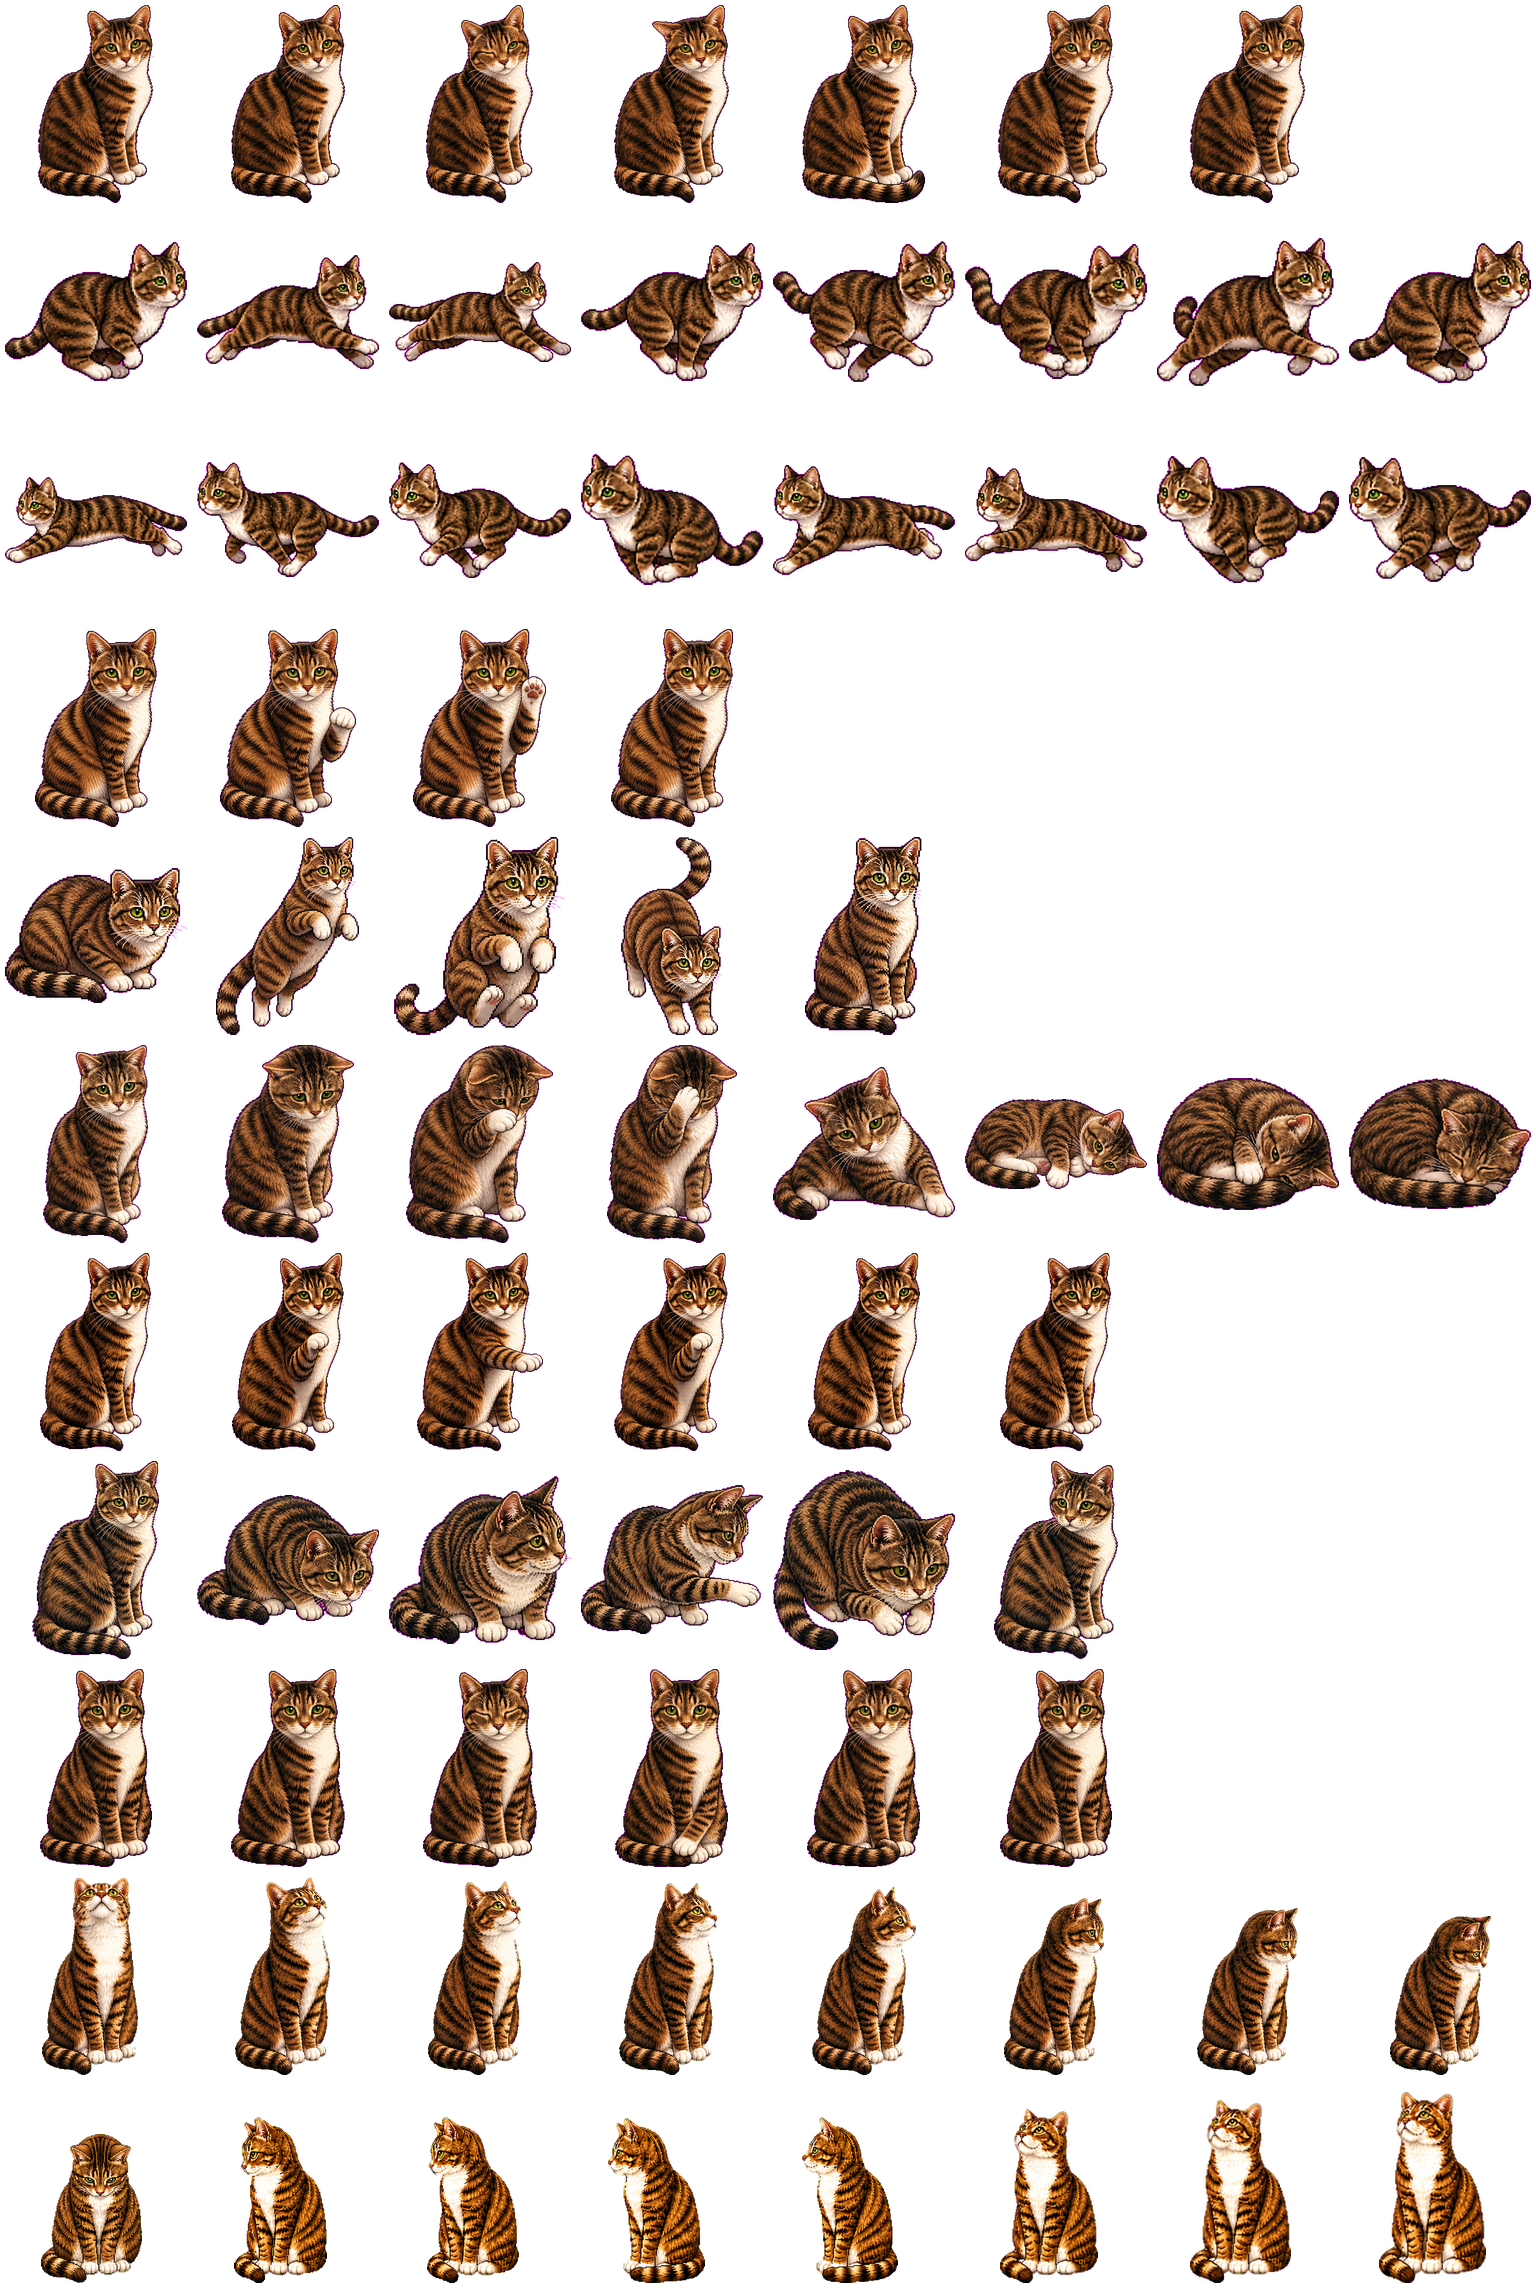
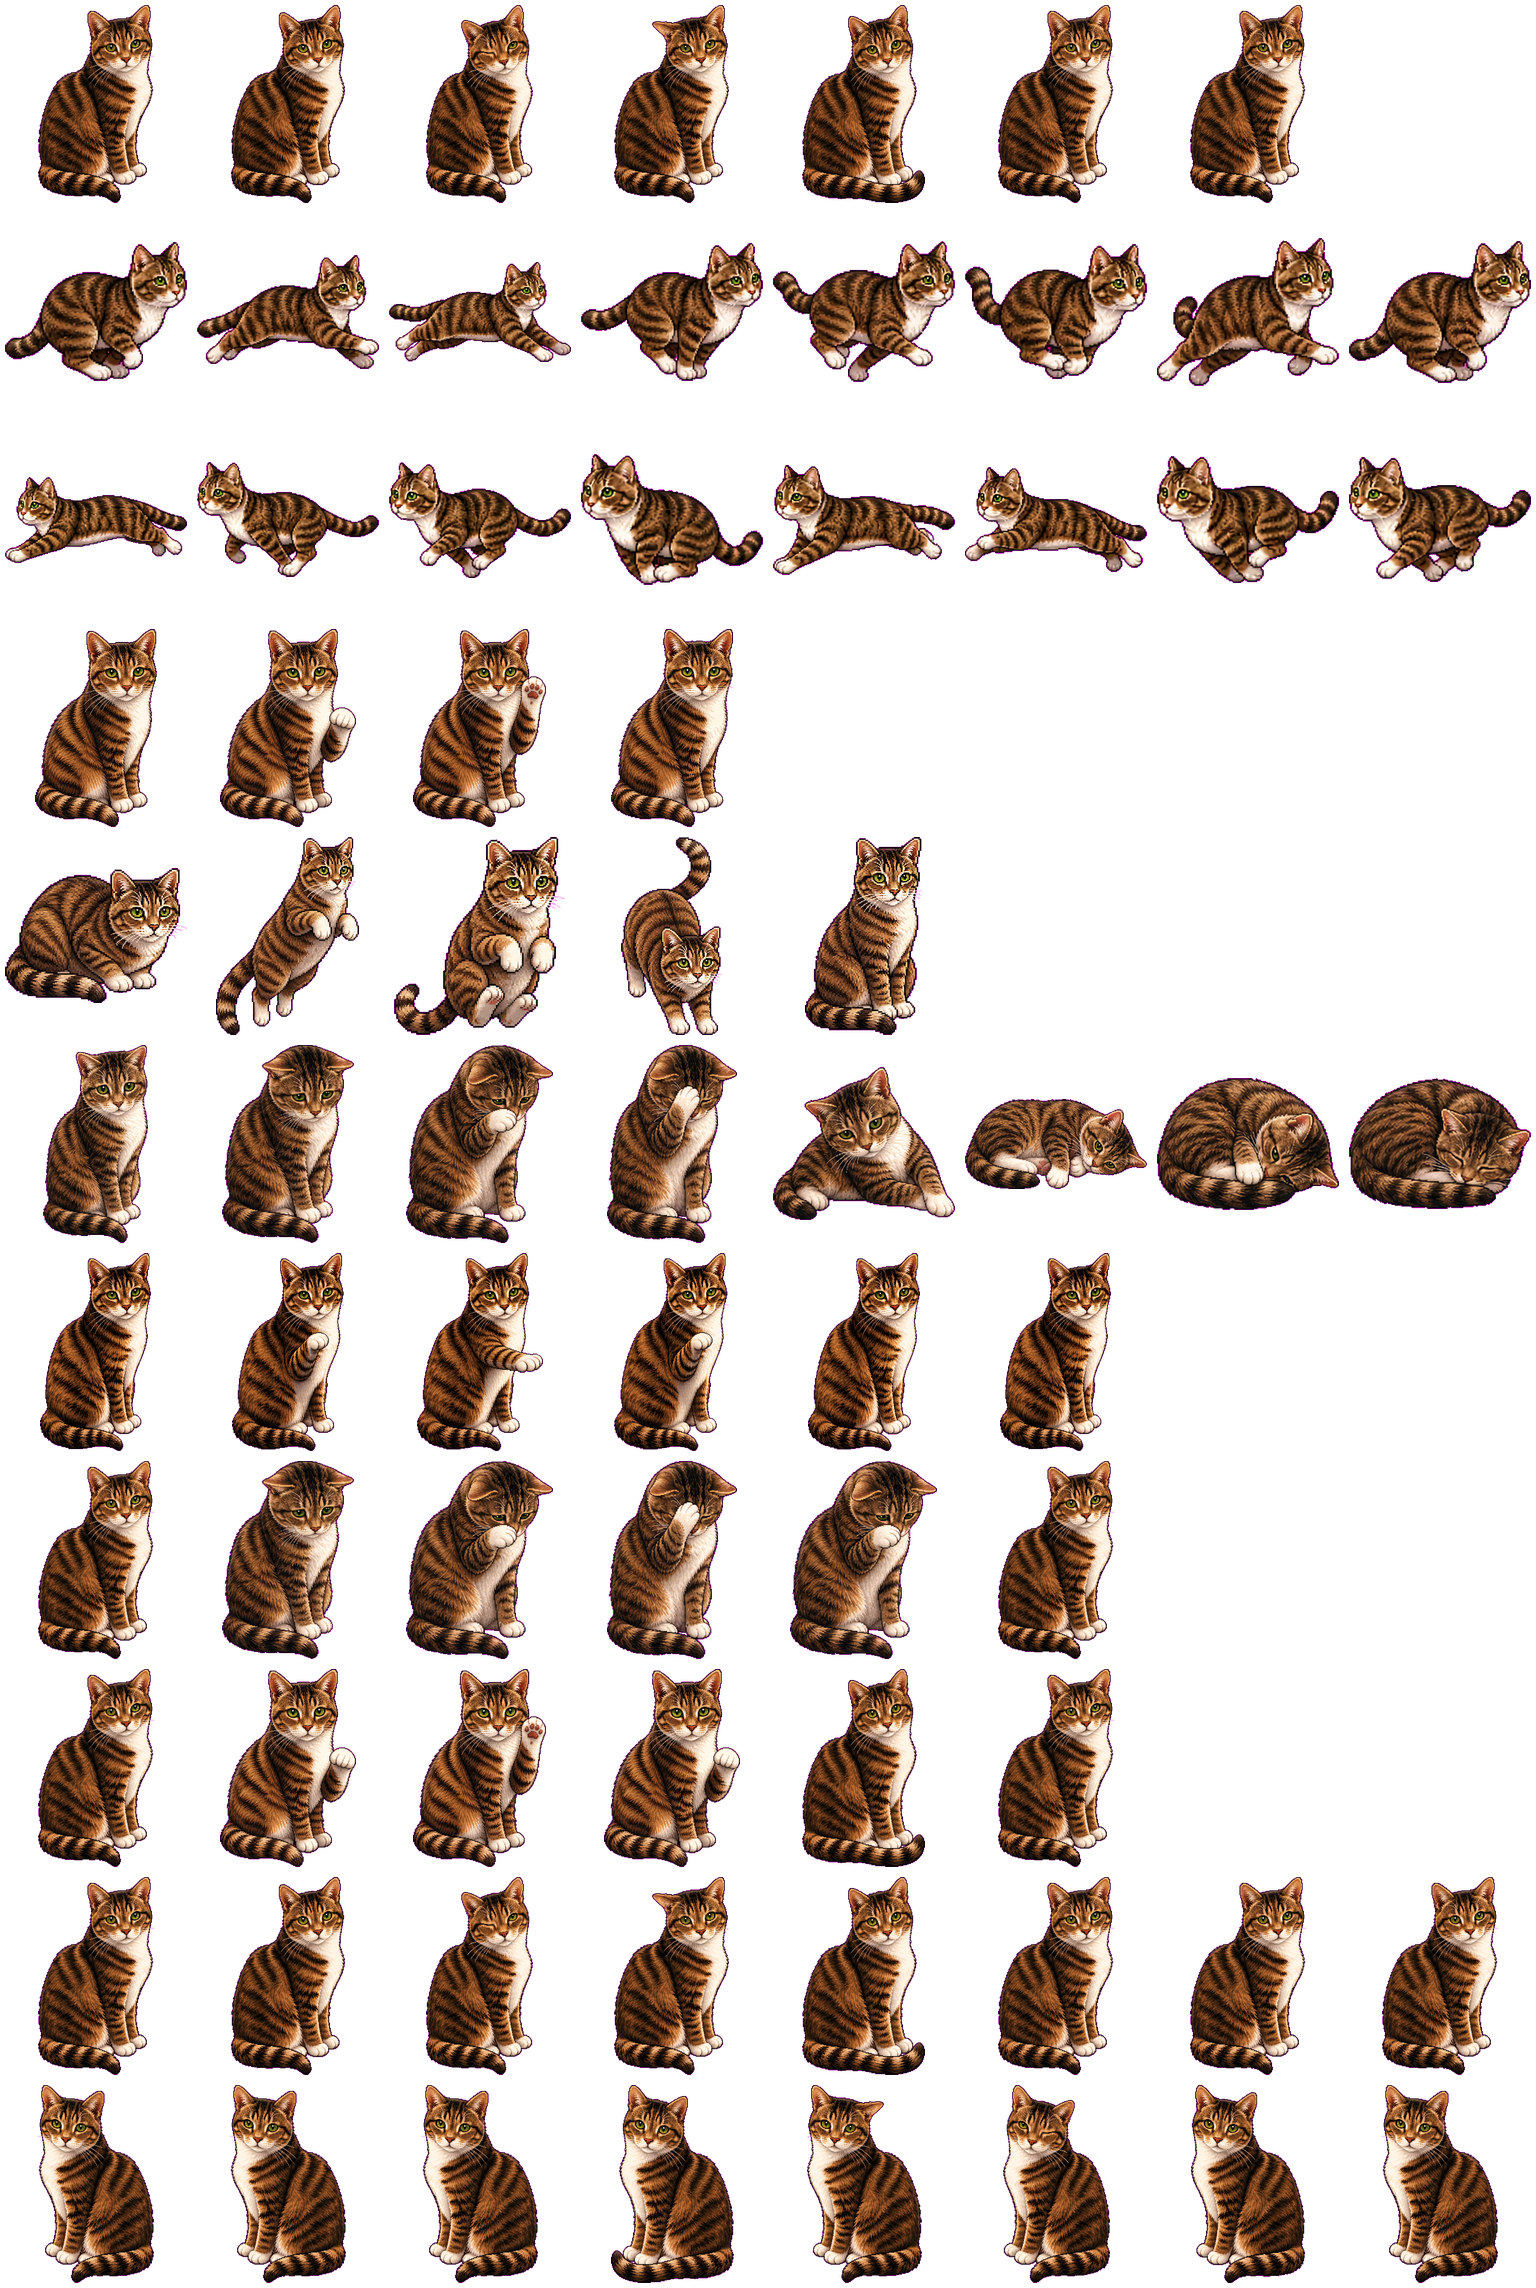
Update Esperanza preview

Changed region(s): [[0.0, 0.6206, 0.75, 1.0], [0.875, 0.8068, 1.0, 1.0], [0.75, 0.8068, 0.875, 1.0]]

diff --git a/app.js b/app.js
@@ -44,13 +44,13 @@ const animations = {
   },
   think: {
     label: "Think",
-    detail: "Stalk, track, and compact pounce",
-    delay: 260,
+    detail: "A full-size facepaw pondering loop",
+    delay: 300,
     frames: FRAME_SEQUENCE(7, 6),
   },
   ready: {
     label: "Ready",
-    detail: "Happy blink, paw settle, and tail curl",
+    detail: "Happy paw wave, blink, and tail curl",
     delay: 340,
     frames: FRAME_SEQUENCE(8, 6),
   },
@@ -62,8 +62,8 @@ const animations = {
   },
   "look-around": {
     label: "Look around",
-    detail: "All sixteen gaze directions",
-    delay: 180,
+    detail: "A gentle left-and-right seated scan",
+    delay: 260,
     frames: [...FRAME_SEQUENCE(9, 8), ...FRAME_SEQUENCE(10, 8)],
   },
 };

diff --git a/index.html b/index.html
@@ -10,6 +10,7 @@
     <meta name="color-scheme" content="dark light" />
     <title>Esperanza animation preview</title>
     <link rel="icon" href="favicon.svg" type="image/svg+xml" />
+    <link rel="alternate icon" href="favicon.ico" />
     <link rel="stylesheet" href="styles.css" />
   </head>
   <body>
